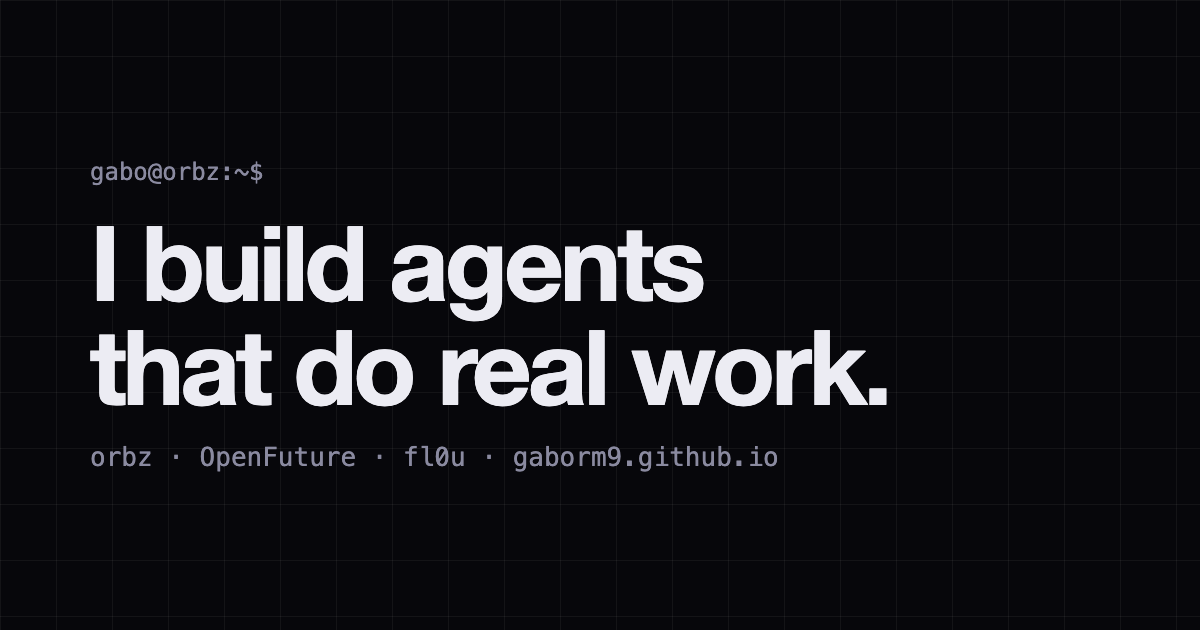
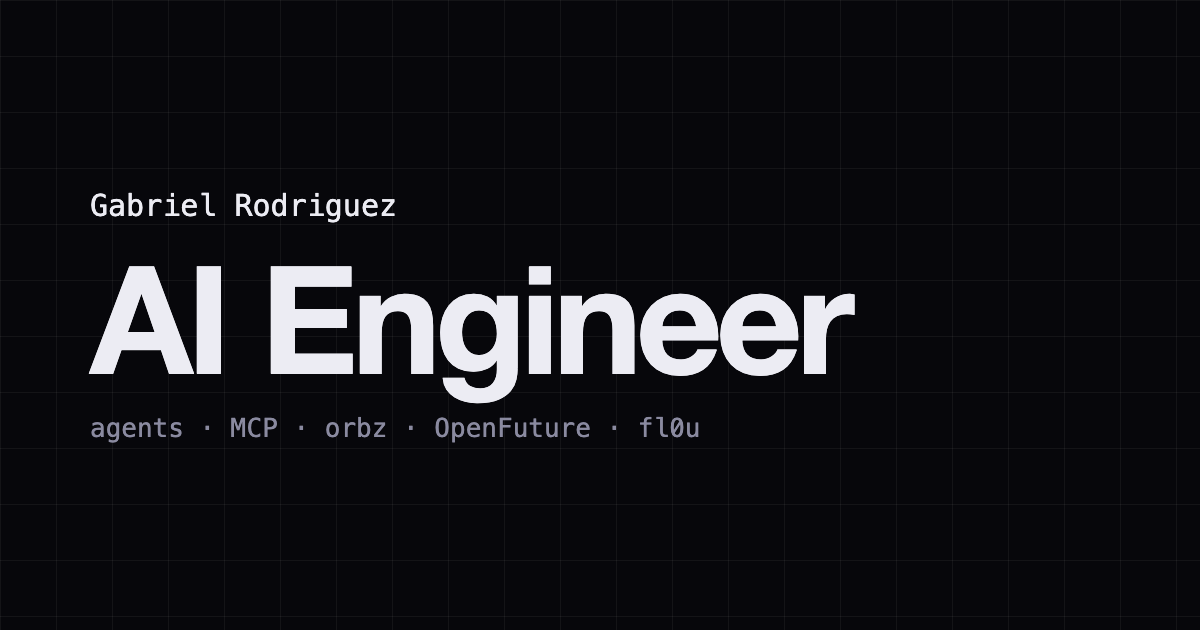
Name and AI Engineer headline, new share image

Changed region(s): [[0.0617, 0.2413, 0.74, 0.754]]

diff --git a/index.html b/index.html
@@ -3,9 +3,9 @@
 <head>
 <meta charset="utf-8">
 <meta name="viewport" content="width=device-width,initial-scale=1">
-<title>gabo · AI agents &amp; full-stack</title>
+<title>Gabriel Rodriguez · AI Engineer</title>
 <meta name="description" content="Portfolio of Gabo: AI agents, MCP, Claude, TypeScript, Next.js.">
-<meta property="og:title" content="gabo · I build agents that do real work">
+<meta property="og:title" content="Gabriel Rodriguez · AI Engineer">
 <meta property="og:description" content="Agent workspaces, MCP tools, forecasting. Projects, architecture and write-ups.">
 <meta property="og:image" content="https://gaborm9.github.io/og.png">
 <meta property="og:url" content="https://gaborm9.github.io/">
@@ -159,16 +159,18 @@ footer{padding:80px 0 50px;font-family:var(--mono);font-size:.85rem;color:var(--
  .s-sk{font-size:10.5px}.s-of .tl2{display:none}.s-of table{font-size:10px}
  .hero{padding:50px 0 30px}.nums{grid-template-columns:repeat(2,1fr)}
 }
+.name{font-family:var(--mono);font-size:1rem;color:var(--fg);margin:22px 0 -6px;letter-spacing:.02em}
 @media(prefers-reduced-motion:reduce){*{animation:none!important;transition:none!important}[data-t]{opacity:1;transform:none}.bar{width:var(--w)}.type{width:auto}}
 </style>
 </head>
 <body>
 <div class="wrap">
-<nav><b>gabo@orbz:~$</b><span><a href="#work">work</a><a href="#stack">stack</a><a href="mailto:gabo9rm@gmail.com">contact</a></span></nav>
+<nav><b>gabriel@orbz:~$</b><span><a href="#work">work</a><a href="#stack">stack</a><a href="mailto:gabo9rm@gmail.com">contact</a></span></nav>
 
 <header class="hero">
 <span class="tag">● currently building orbz</span>
-<h1>I build <em>agents</em><br>that do real work.</h1>
+<div class="name">Gabriel Rodriguez</div>
+<h1><em>AI</em> Engineer</h1>
 <p class="lead">Full-stack engineer shipping LLM agents with tool use, human approvals and run logs. Next.js, MCP, Claude.</p>
 <p class="lead" style="margin-top:8px;font-size:1rem">Open to agent-engineering roles and projects.</p>
 <div class="cta"><a class="btn p" href="#work">See the work ↓</a><a class="btn" href="https://github.com/GaboRM9">GitHub</a><a class="btn" href="mailto:gabo9rm@gmail.com">Email me</a></div>
